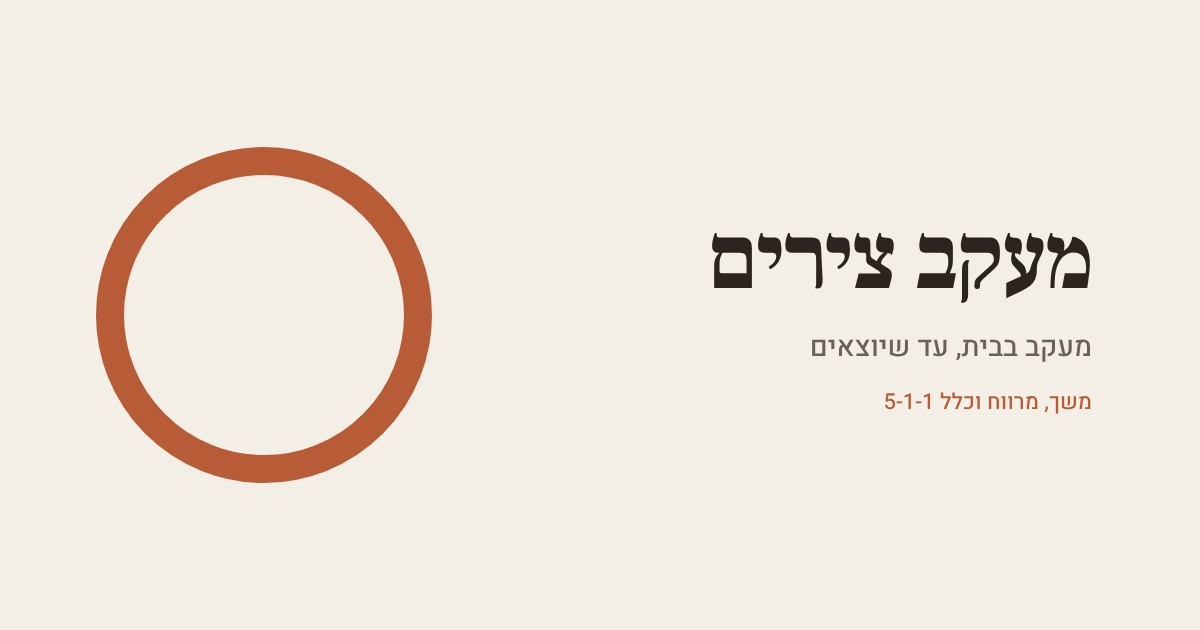
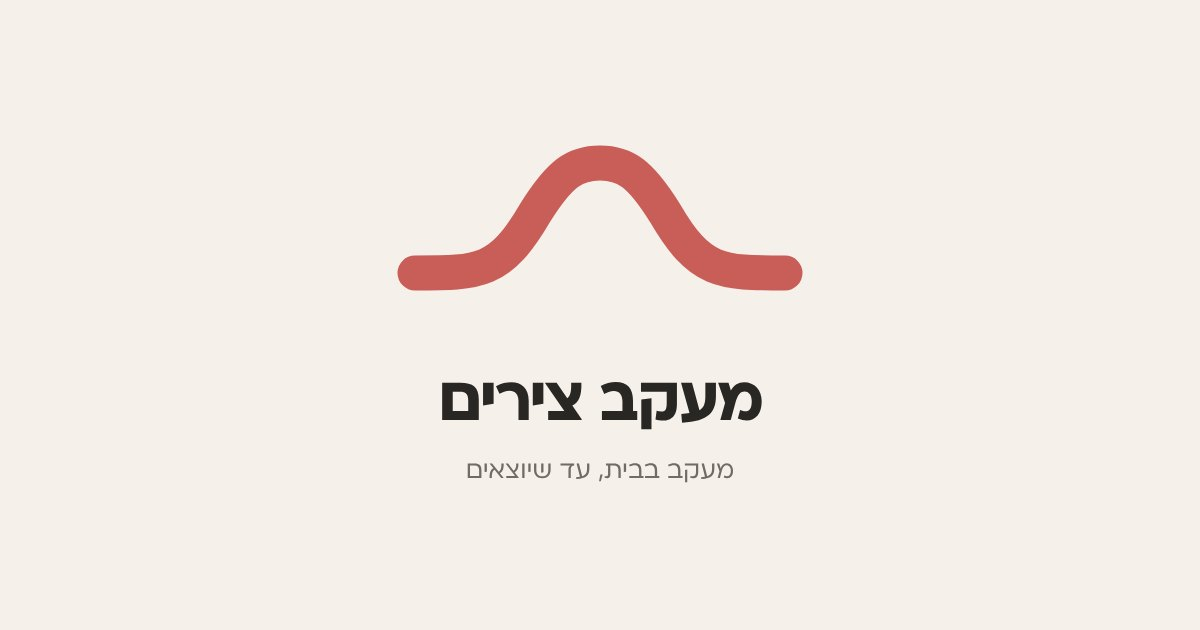
Use the wave mark across the product
Header, Now tab, onboarding, favicon and share cards all carry the same contraction wave — not only the launcher icon.

diff --git a/src/components/app-shell.tsx b/src/components/app-shell.tsx
@@ -1,13 +1,14 @@
 import { Link, useRouterState } from "@tanstack/react-router";
-import { BookOpen, Clock3, List, Settings2 } from "lucide-react";
+import { BookOpen, List, Settings2 } from "lucide-react";
 import type { ReactNode } from "react";
+import { BrandWave } from "@/components/brand-wave";
 import { useNow } from "@/hooks/use-now";
 import { activeContraction, evaluatePhase } from "@/lib/contractions";
 import { useAppStore, useCurrentSession } from "@/lib/store";
 import { cn } from "@/lib/utils";
 
 const NAV = [
-  { to: "/", label: "עכשיו", icon: Clock3 },
+  { to: "/", label: "עכשיו", icon: "wave" },
   { to: "/history", label: "היסטוריה", icon: List },
   { to: "/guide", label: "מדריך", icon: BookOpen },
   { to: "/settings", label: "הגדרות", icon: Settings2 },
@@ -45,7 +46,6 @@ export function AppShell({ children }: { children: ReactNode }) {
             <ul className="grid grid-cols-4 rounded-full bg-elevated px-1.5 py-2 shadow-float">
               {NAV.map((item) => {
                 const current = item.to === "/" ? pathname === "/" : pathname.startsWith(item.to);
-                const Icon = item.icon;
                 return (
                   <li key={item.to}>
                     <Link
@@ -62,7 +62,11 @@ export function AppShell({ children }: { children: ReactNode }) {
                           current && "bg-accent/20",
                         )}
                       >
-                        <Icon className="size-5" strokeWidth={current ? 2.15 : 1.8} />
+                        {item.icon === "wave" ? (
+                          <BrandWave className="w-7 text-current" />
+                        ) : (
+                          <item.icon className="size-5" strokeWidth={current ? 2.15 : 1.8} />
+                        )}
                       </span>
                       {item.label}
                     </Link>

diff --git a/src/components/onboarding.tsx b/src/components/onboarding.tsx
@@ -1,5 +1,6 @@
 import { useState } from "react";
-import { Clock3, Shield } from "lucide-react";
+import { Shield } from "lucide-react";
+import { BrandWave } from "@/components/brand-wave";
 import { Button } from "@/components/ui/button";
 import type { BirthType } from "@/lib/contractions";
 import { useAppStore } from "@/lib/store";
@@ -25,6 +26,7 @@ export function Onboarding() {
       aria-labelledby="onboarding-title"
     >
       <div className="w-full max-w-md">
+        <BrandWave className="mb-4 w-20 text-active" />
         <p className="font-display text-3xl font-bold tracking-tight text-fg">מעקב צירים</p>
         <p className="mt-1 text-sm text-muted">מעקב בבית, עד שיוצאים</p>
 
@@ -102,8 +104,8 @@ function WhoStep({
 function MeasureStep() {
   return (
     <>
-      <div className="mt-8 flex size-12 items-center justify-center rounded-lg bg-accent/15 text-accent">
-        <Clock3 className="size-6" strokeWidth={1.8} />
+      <div className="mt-8 flex h-12 w-20 items-center text-active">
+        <BrandWave className="w-20" />
       </div>
       <p id="onboarding-title" className="mt-5 font-display text-2xl font-bold text-fg">
         את מודדת. אנחנו מחשבים.

diff --git a/src/components/top-bar.tsx b/src/components/top-bar.tsx
@@ -1,4 +1,5 @@
 import { Moon, Sun } from "lucide-react";
+import { BrandWave } from "@/components/brand-wave";
 import { Button } from "@/components/ui/button";
 import { useAppStore } from "@/lib/store";
 
@@ -15,7 +16,10 @@ export function TopBar({
   return (
     <header className="flex items-center justify-between gap-3 px-5 pb-3 pt-[max(1rem,env(safe-area-inset-top))]">
       <div className="min-w-0">
-        <p className="font-display text-3xl font-bold leading-none tracking-tight text-fg">{title}</p>
+        <div className="flex items-center gap-2.5">
+          <BrandWave className="w-11 shrink-0 text-active" />
+          <p className="font-display text-3xl font-bold leading-none tracking-tight text-fg">{title}</p>
+        </div>
         {subtitle ? <p className="mt-1.5 text-sm text-muted">{subtitle}</p> : null}
       </div>
       <Button

diff --git a/src/routes/history.tsx b/src/routes/history.tsx
@@ -4,7 +4,6 @@ import { he } from "date-fns/locale";
 import { Share2 } from "lucide-react";
 import { useState } from "react";
 import { toast } from "sonner";
-import { BrandWave } from "@/components/brand-wave";
 import { ConfirmSheet } from "@/components/confirm-sheet";
 import { ContractionList } from "@/components/contraction-list";
 import { IntervalSparkline } from "@/components/interval-sparkline";
@@ -36,7 +35,6 @@ function HistoryPage() {
     <main className="flex min-h-0 flex-1 flex-col">
       <TopBar title="היסטוריה" subtitle="המעקב הפתוח, והקודמים" />
       <div className="flex min-h-0 flex-1 flex-col gap-4 overflow-y-auto px-5 pb-6">
-        <BrandWave className="mx-auto w-16 text-active/70" />
         <StatsRow session={session} stats={stats} />
         <IntervalSparkline session={session} />
 

diff --git a/src/routes/__root.tsx b/src/routes/__root.tsx
@@ -25,9 +25,10 @@ export const Route = createRootRoute({
     ],
     links: [
       { rel: "icon", type: "image/svg+xml", href: "/favicon.svg" },
+      { rel: "icon", type: "image/png", sizes: "32x32", href: "/favicon-32.png" },
+      { rel: "apple-touch-icon", href: "/icon-180.png" },
       { rel: "stylesheet", href: appCss },
       { rel: "manifest", href: "/__grok/manifest.webmanifest" },
-      { rel: "apple-touch-icon", href: "/__grok/icon-180.png" },
     ],
   }),
   component: RootDocument,

diff --git a/src/routes/index.tsx b/src/routes/index.tsx
@@ -243,7 +243,6 @@ function RestStage({
 function IdleStage() {
   return (
     <div className="flex min-h-0 flex-1 flex-col items-center justify-center py-8 text-center">
-      <BrandWave className="mx-auto mb-6 w-28 text-active/80" />
       <p className="font-display text-2xl font-bold text-fg">כשהציר מתחיל</p>
       <p className="mt-2 text-sm text-muted">לחצי ״התחיל״. זהו.</p>
     </div>
